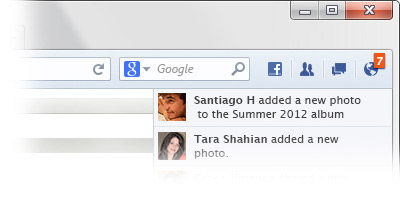
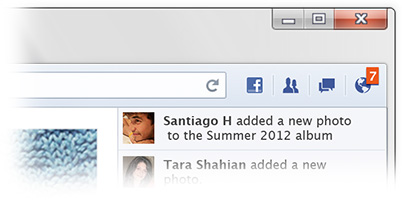
Screenshot on social promo on Features page (Bug 808132)

diff --git a/apps/firefox/templates/firefox/features.html b/apps/firefox/templates/firefox/features.html
@@ -42,7 +42,7 @@
     <h3>Browsing Made <span>Easy</span></h3>
 
     <div id="facebook-messenger" class="feature">
-      <img src="{{ media('/img/firefox/features/screen-facebook.jpg') }}" alt="Facebook Messenger screenshot" height="200" width="400" />
+      {{ platform_img('img/firefox/features/screen-facebook.jpg', alt='Facebook Messenger screenshot') }}
       <h4>Facebook Messenger <img src="{{ media('/img/firefox/features/new.png') }}" alt="New" height="21" width="59" /></h4>
       <p>Become the master of your social circle and keep up with friends wherever you go on the Web. Chat while you browse and see new comments, photo tags and other stuff in a collapsible sidebar on the right of your browser window. Enjoy some of your favorite Facebook features right from Firefox to make browsing more social.</p>
     </div>
